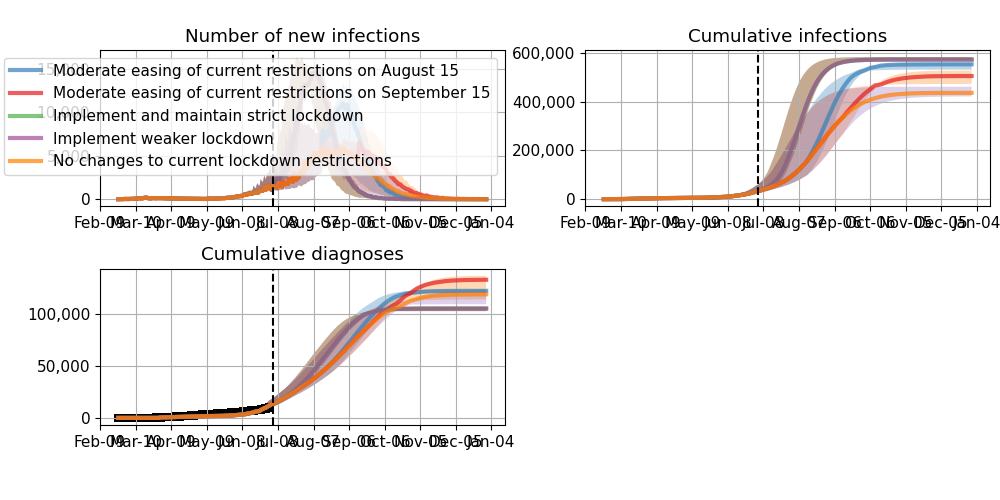
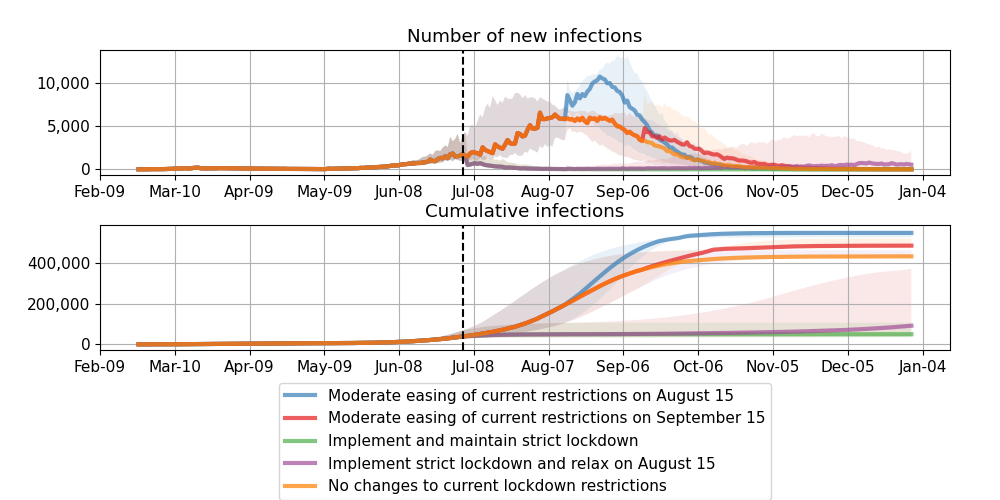
Finally got Nashville sorted

diff --git a/applications/us_states/run_nashville.py b/applications/us_states/run_nashville.py
@@ -42,16 +42,13 @@ if __name__ == "__main__":
                                     'policies': {'relax4': {'beta': 0.85}}},
 
                                'Implement and maintain strict lockdown':
-                                   {'replace': (['lockdown4'], [['lockdown5']], [[132]]),
-                                    'policies': {'lockdown5': {'beta': 0.2}}},
+                                   {'replace': (['lockdown4'], [['lockdown5']], [[132]])},
 
-                               'Implement weaker lockdown':
-                                   {'replace': (['lockdown4'], [['lockdown5']], [[132]]),
-                                    'policies': {'lockdown5': {'beta': 0.4}}},
+                               'Implement strict lockdown and relax on August 15':
+                                   {'replace': (['lockdown4', 'lockdown5'], [['lockdown5'], ['lockdown6']], [[132], [172]])},
 
                                'No changes to current lockdown restrictions':
-                                   {'replace': (['lockdown4'], [['lockdown4']], [[500]]),
-                                    'policies': {'lockdown4': {'beta': 0.2}}},
+                                   {'replace': (['lockdown4'], [['lockdown4']], [[500]])},
                                }}
 
 
@@ -72,7 +69,7 @@ if __name__ == "__main__":
     new_no_release_SO = sum(
         scens['scenarios']['Nashville'].results['new_infections']['No changes to current lockdown restrictions']['best'][203:246]) * 100 * 30 / 42 / pop
     new_lockdownrelease_SO = sum(
-        scens['scenarios']['Nashville'].results['new_infections']['Implement weaker lockdown']['best'][203:246]) * 100 * 30 / 42 / pop
+        scens['scenarios']['Nashville'].results['new_infections']['Implement strict lockdown and relax on August 15']['best'][203:246]) * 100 * 30 / 42 / pop
     new_lockdownmaintain_SO = sum(
         scens['scenarios']['Nashville'].results['new_infections']['Implement and maintain strict lockdown']['best'][203:246]) * 100 * 30 / 42 / pop
     new_september_moderaterelease_SO = sum(
@@ -82,7 +79,7 @@ if __name__ == "__main__":
     diag_no_release_SO = sum(
         scens['scenarios']['Nashville'].results['new_diagnoses']['No changes to current lockdown restrictions']['best'][203:246]) * 100 * 30 / 42 / pop
     diag_lockdownrelease_SO = sum(
-        scens['scenarios']['Nashville'].results['new_diagnoses']['Implement weaker lockdown']['best'][203:246]) * 100 * 30 / 42 / pop
+        scens['scenarios']['Nashville'].results['new_diagnoses']['Implement strict lockdown and relax on August 15']['best'][203:246]) * 100 * 30 / 42 / pop
     diag_lockdownmaintain_SO = sum(
         scens['scenarios']['Nashville'].results['new_diagnoses']['Implement and maintain strict lockdown']['best'][203:246]) * 100 * 30 / 42 / pop
     diag_september_moderaterelease_SO = sum(
@@ -92,7 +89,7 @@ if __name__ == "__main__":
     cum_no_release_SO = \
     scens['scenarios']['Nashville'].results['cum_infections']['No changes to current lockdown restrictions']['best'][246] / pop
     cum_lockdownrelease_SO = \
-    scens['scenarios']['Nashville'].results['cum_infections']['Implement weaker lockdown']['best'][246] / pop
+    scens['scenarios']['Nashville'].results['cum_infections']['Implement strict lockdown and relax on August 15']['best'][246] / pop
     cum_lockdownmaintain_SO = \
     scens['scenarios']['Nashville'].results['cum_infections']['Implement and maintain strict lockdown']['best'][246] / pop
     cum_september_moderaterelease_SO = \
@@ -103,7 +100,7 @@ if __name__ == "__main__":
     new_no_release_ND = sum(
         scens['scenarios']['Nashville'].results['new_infections']['No changes to current lockdown restrictions']['best'][264:307]) * 100 * 30 / 42 / pop
     new_lockdownrelease_ND = sum(
-        scens['scenarios']['Nashville'].results['new_infections']['Implement weaker lockdown']['best'][264:307]) * 100 * 30 / 42 / pop
+        scens['scenarios']['Nashville'].results['new_infections']['Implement strict lockdown and relax on August 15']['best'][264:307]) * 100 * 30 / 42 / pop
     new_lockdownmaintain_ND = sum(
         scens['scenarios']['Nashville'].results['new_infections']['Implement and maintain strict lockdown']['best'][264:307]) * 100 * 30 / 42 / pop
     new_september_moderaterelease_ND = sum(
@@ -113,7 +110,7 @@ if __name__ == "__main__":
     diag_no_release_ND = sum(
         scens['scenarios']['Nashville'].results['new_diagnoses']['No changes to current lockdown restrictions']['best'][264:307]) * 100 * 30 / 42 / pop
     diag_lockdownrelease_ND = sum(
-        scens['scenarios']['Nashville'].results['new_diagnoses']['Implement weaker lockdown']['best'][264:307]) * 100 * 30 / 42 / pop
+        scens['scenarios']['Nashville'].results['new_diagnoses']['Implement strict lockdown and relax on August 15']['best'][264:307]) * 100 * 30 / 42 / pop
     diag_lockdownmaintain_ND = sum(
         scens['scenarios']['Nashville'].results['new_diagnoses']['Implement and maintain strict lockdown']['best'][264:307]) * 100 * 30 / 42 / pop
     diag_september_moderaterelease_ND = sum(
@@ -123,7 +120,7 @@ if __name__ == "__main__":
     cum_no_release_ND = \
     scens['scenarios']['Nashville'].results['cum_infections']['No changes to current lockdown restrictions']['best'][307] / pop
     cum_lockdownrelease_ND = \
-    scens['scenarios']['Nashville'].results['cum_infections']['Implement weaker lockdown']['best'][307] / pop
+    scens['scenarios']['Nashville'].results['cum_infections']['Implement strict lockdown and relax on August 15']['best'][307] / pop
     cum_lockdownmaintain_ND = \
     scens['scenarios']['Nashville'].results['cum_infections']['Implement and maintain strict lockdown']['best'][307] / pop
     cum_september_moderaterelease_ND = \
@@ -133,42 +130,42 @@ if __name__ == "__main__":
 
     with open('Nashville_projections.txt', 'w') as f:
         print('30 day incidence for Sept-Oct: No changes to current lockdown restrictions =', new_no_release_SO, file=f)
-        print('30 day incidence for Sept-Oct: Implement weaker lockdown =', new_lockdownrelease_SO, file=f)
+        print('30 day incidence for Sept-Oct: Implement strict lockdown and relax on August 15 =', new_lockdownrelease_SO, file=f)
         print('30 day incidence for Sept-Oct: Implement and maintain strict lockdown =', new_lockdownmaintain_SO,
               file=f)
         print('30 day incidence for Sept-Oct: Moderate easing of current restrictions on September 15 =', new_september_moderaterelease_SO, file=f)
         print('30 day incidence for Sept-Oct: Moderate easing of current restrictions on on August 15 =', new_august_moderaterelease_SO,
               file=f)
         print('30 day detected cases for Sept-Oct: No changes to current lockdown restrictions =', diag_no_release_SO, file=f)
-        print('30 day detected cases for Sept-Oct: Implement weaker lockdown =', diag_lockdownrelease_SO, file=f)
+        print('30 day detected cases for Sept-Oct: Implement strict lockdown and relax on August 15 =', diag_lockdownrelease_SO, file=f)
         print('30 day detected cases for Sept-Oct: Implement and maintain strict lockdown =', diag_lockdownmaintain_SO,
               file=f)
         print('30 day detected cases for Sept-Oct: Moderate easing of current restrictions on September 15 =', diag_september_moderaterelease_SO, file=f)
         print('30 day detected cases for Sept-Oct: Moderate easing of current restrictions on on August 15 =', diag_august_moderaterelease_SO,
               file=f)
         print('Cumulative infections for Sept-Oct: No changes to current lockdown restrictions =', cum_no_release_SO, file=f)
-        print('Cumulative infections for Sept-Oct: Implement weaker lockdown =', cum_lockdownrelease_SO, file=f)
+        print('Cumulative infections for Sept-Oct: Implement strict lockdown and relax on August 15 =', cum_lockdownrelease_SO, file=f)
         print('Cumulative infections for Sept-Oct: Implement and maintain strict lockdown =', cum_lockdownmaintain_SO,
               file=f)
         print('Cumulative infections for Sept-Oct: Moderate easing of current restrictions on September 15 =', cum_september_moderaterelease_SO, file=f)
         print('Cumulative infections for Sept-Oct: Moderate easing of current restrictions on on August 15 =', cum_august_moderatelrelease_SO,
               file=f)
         print('30 day incidence for Nov-Dec: No changes to current lockdown restrictions =', new_no_release_ND, file=f)
-        print('30 day incidence for Nov-Dec: Implement weaker lockdown =', new_lockdownrelease_ND, file=f)
+        print('30 day incidence for Nov-Dec: Implement strict lockdown and relax on August 15 =', new_lockdownrelease_ND, file=f)
         print('30 day incidence for Nov-Dec: Implement and maintain strict lockdown =', new_lockdownmaintain_ND,
               file=f)
         print('30 day incidence for Nov-Dec: Moderate easing of current restrictions on September 15 =', new_september_moderaterelease_ND, file=f)
         print('30 day incidence for Nov-Dec: Moderate easing of current restrictions on on August 15 =', new_august_moderaterelease_ND,
               file=f)
         print('30 day detected cases for Nov-Dec: No changes to current lockdown restrictions =', diag_no_release_ND, file=f)
-        print('30 day detected cases for Nov-Dec: Implement weaker lockdown =', diag_lockdownrelease_ND, file=f)
+        print('30 day detected cases for Nov-Dec: Implement strict lockdown and relax on August 15 =', diag_lockdownrelease_ND, file=f)
         print('30 day detected cases for Nov-Dec: Implement and maintain strict lockdown =', diag_lockdownmaintain_ND,
               file=f)
         print('30 day detected cases for Nov-Dec: Moderate easing of current restrictions on September 15 =', diag_september_moderaterelease_ND, file=f)
         print('30 day detected cases for Nov-Dec: Moderate easing of current restrictions on on August 15 =', diag_august_moderaterelease_ND,
               file=f)
         print('Cumulative infections for Nov-Dec: No changes to current lockdown restrictions =', cum_no_release_ND, file=f)
-        print('Cumulative infections for Nov-Dec: Implement weaker lockdown =', cum_lockdownrelease_ND, file=f)
+        print('Cumulative infections for Nov-Dec: Implement strict lockdown and relax on August 15 =', cum_lockdownrelease_ND, file=f)
         print('Cumulative infections for Nov-Dec: Implement and maintain strict lockdown =', cum_lockdownmaintain_ND,
               file=f)
         print('Cumulative infections for Nov-Dec: Moderate easing of current restrictions on September 15 =', cum_september_moderaterelease_ND, file=f)
@@ -191,11 +188,11 @@ if __name__ == "__main__":
     # plot cumulative infections to see if all the population gets infected
     utils.policy_plot2(scens, plot_ints=False, do_save=True, do_show=True,
                        fig_path=dirname + '/figs/Nashville-projections' + '.png',
-                       interval=30, n_cols=2,
+                       interval=30, n_cols=1,
                        fig_args=dict(figsize=(10, 5), dpi=100),
                        font_size=11,
                        # y_lim={'new_infections': 500},
-                       #legend_args={'loc': 'lower right', 'bbox_to_anchor': (1.0, -1.6)},
-                       axis_args={'left': 0.1, 'wspace': 0.2, 'right': 0.99, 'hspace': 0.4, 'bottom': 0.15},
-                       fill_args={'alpha': 0.3},
-                       to_plot=['new_infections', 'cum_infections', 'cum_diagnoses'])
+                       legend_args={'loc': 'upper center', 'bbox_to_anchor': (0.5, -1.6)},
+                       axis_args={'left': 0.1, 'wspace': 0.2, 'right': 0.95, 'hspace': 0.4, 'bottom': 0.3},
+                       fill_args={'alpha': 0.1},
+                       to_plot=['new_infections', 'cum_infections'])
